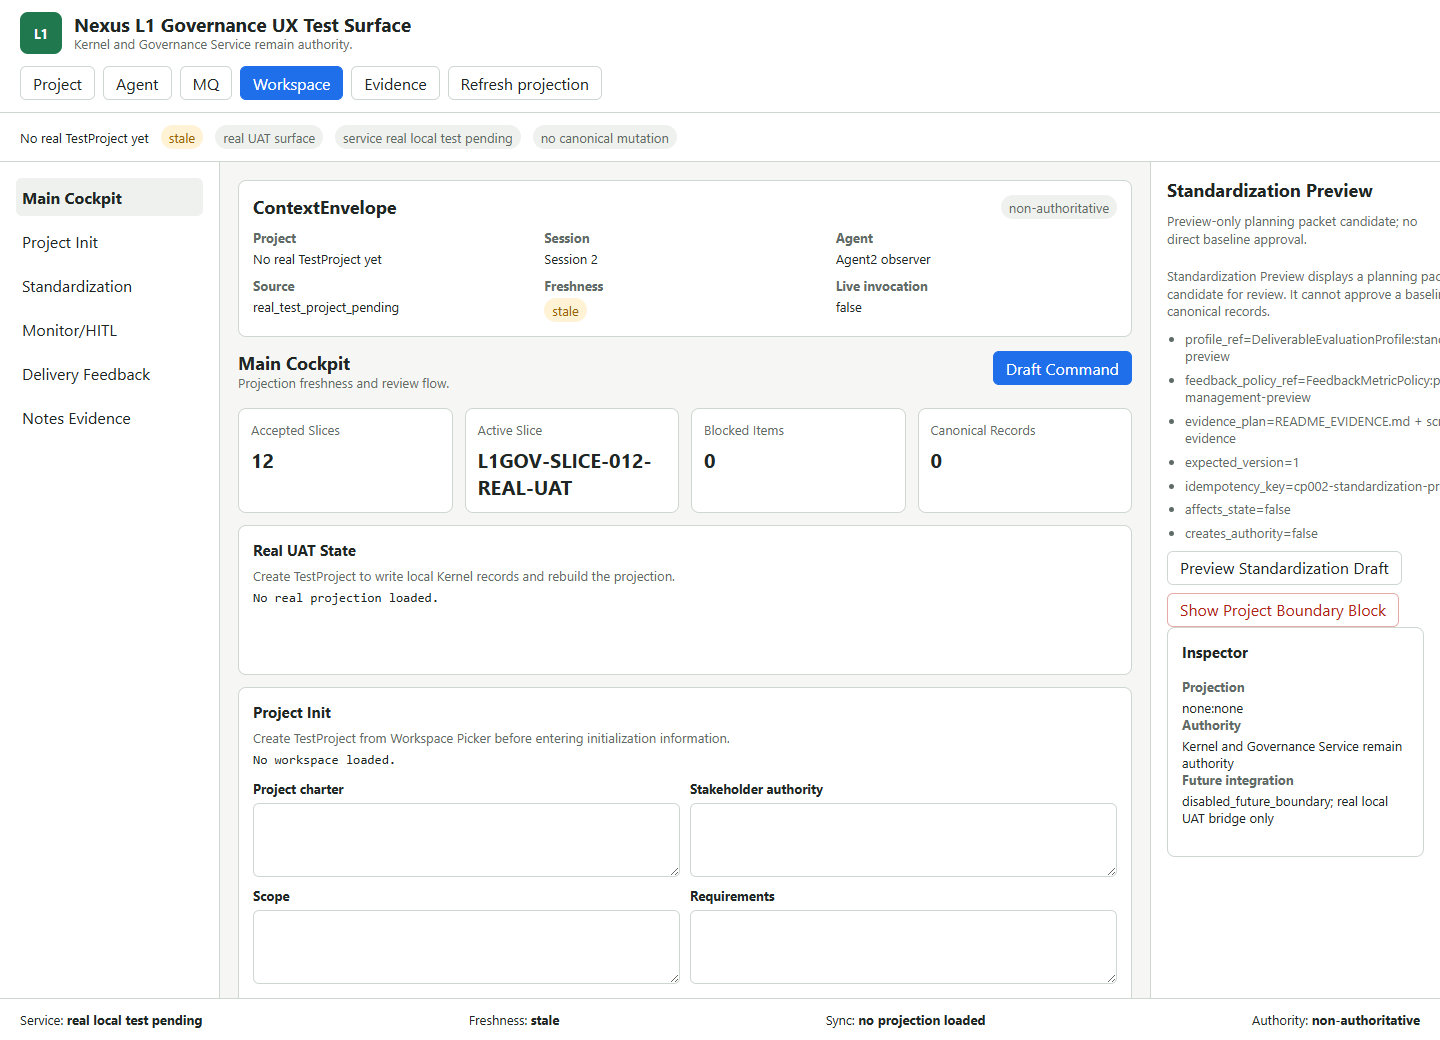
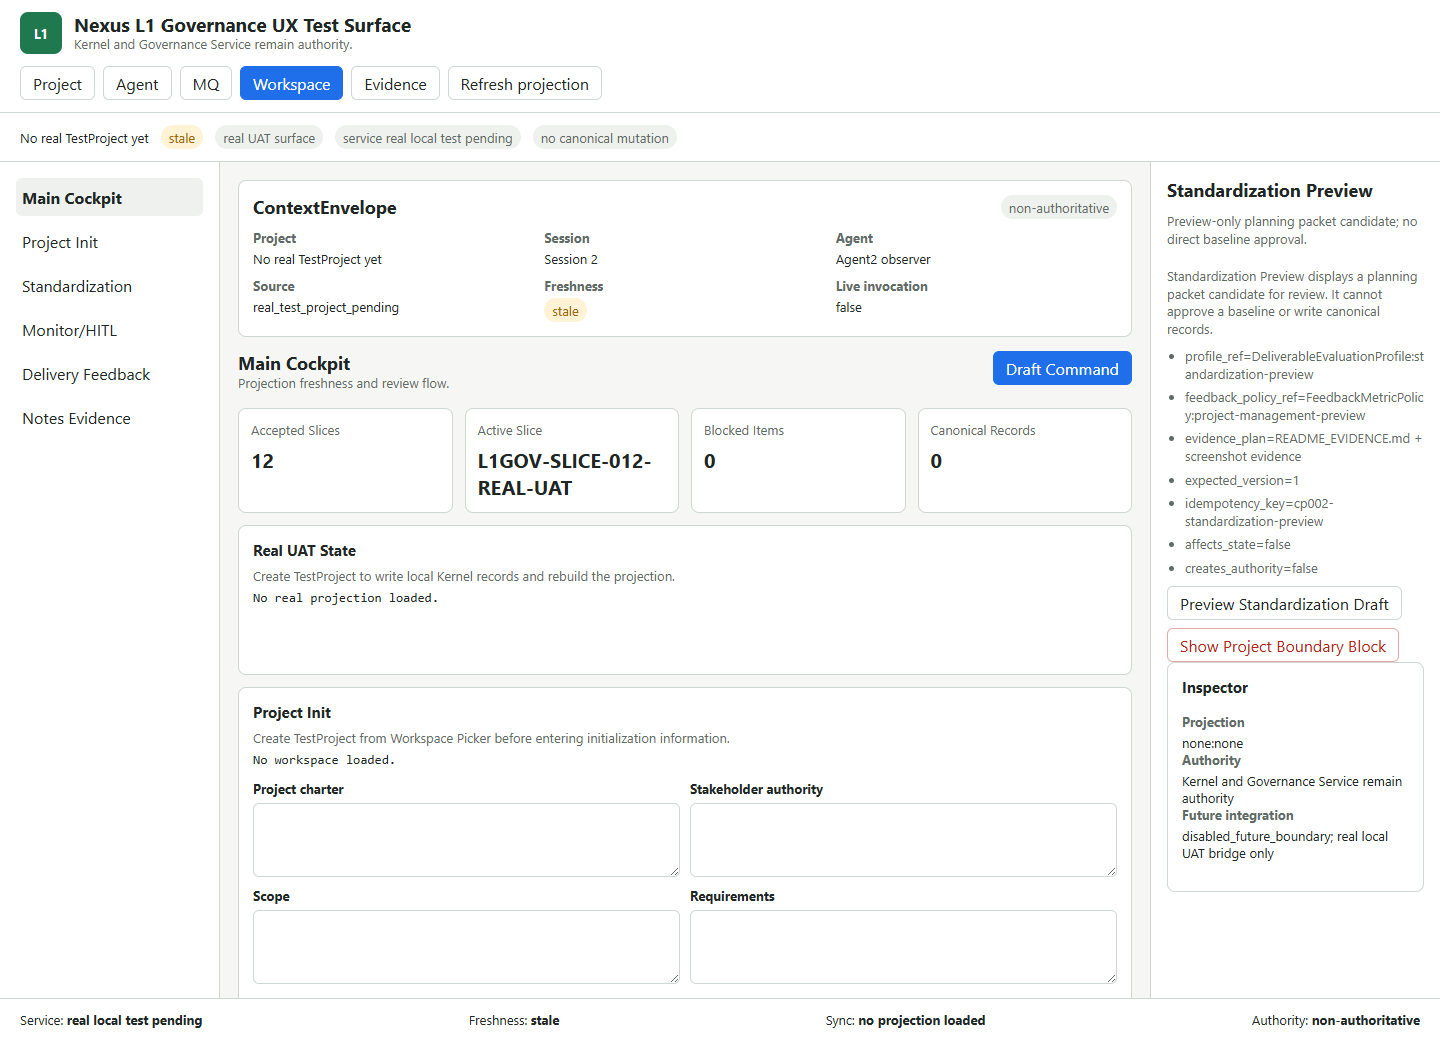
fix: record CP002 authorization and wrap project metadata

Changed region(s): [[0.8125, 0.2769, 1.0, 0.8308]]

diff --git a/apps/l1gov-desktop-client/src/styles.css b/apps/l1gov-desktop-client/src/styles.css
@@ -268,6 +268,7 @@ code {
 .operation-panel-body {
   display: grid;
   gap: 10px;
+  min-width: 0;
 }
 
 .operation-panel-actions {
@@ -282,6 +283,13 @@ code {
   margin: 0;
   padding-left: 18px;
   color: var(--muted);
+}
+
+.operation-panel-body code,
+.panel-detail-list li {
+  min-width: 0;
+  max-width: 100%;
+  overflow-wrap: anywhere;
 }
 
 .section-head {

diff --git a/nexus/governance/tests/test_client_desktop_surface_slice012.py b/nexus/governance/tests/test_client_desktop_surface_slice012.py
@@ -373,3 +373,12 @@ def test_cp002_project_panels_do_not_add_direct_authority_or_baseline_controls()
     assert "direct baseline approval" in main_js
     assert "direct canonical mutation" in main_js
     assert "err_no_go_boundary" in main_js
+
+
+def test_cp002_operation_panel_metadata_wraps_inside_right_panel() -> None:
+    styles = read_app_file("src/styles.css")
+
+    assert ".operation-panel-body code" in styles
+    assert ".panel-detail-list li" in styles
+    assert "overflow-wrap: anywhere" in styles
+    assert "max-width: 100%" in styles

diff --git a/verification/4.21/child-panel-figma-implementation-cp002-project-panels/AUTHORIZATION_RECORD.md b/verification/4.21/child-panel-figma-implementation-cp002-project-panels/AUTHORIZATION_RECORD.md
@@ -1,0 +1,34 @@
+# CP-002 Authorization Record
+
+## Authorization
+
+`AUTHORIZE_CHILD_PANEL_CP002_IMPLEMENTATION`
+
+Alex explicitly authorized CP-002 implementation in the current Codex thread on 2026-06-15 after Nova blocked acceptance pending a file-backed authorization record.
+
+## Authorized Scope
+
+- CP-002 Project Management Panels only.
+- PR #24: `https://github.com/Jarvis-Maverick-Bot/Nexus/pull/24`
+- Branch: `codex/4.21-child-panel-cp002-project-panels`
+- Base branch: `codex/4.21-real-testproject-e2e-uat`
+
+## Approved CP-002 Behaviors
+
+- Project menu open state.
+- Create Project child panel.
+- Init Project dirty-state child panel.
+- Standardization preview child panel.
+- Command draft preview-only behavior.
+- No direct baseline approval or canonical mutation from the desktop UI.
+
+## Not Authorized
+
+- CP-003 or later child-panel work.
+- Merge without Nova/Alex review acceptance.
+- New dependencies or root package-manager mutation.
+- Tauri bridge expansion.
+- Runtime/live/private-agent invocation.
+- Dispatch execution, controller call, route/adapter/transport activation.
+- Deploy/config/credential mutation.
+- Production readiness, continuity activation, or final PASS claim.

diff --git a/verification/4.21/child-panel-figma-implementation-cp002-project-panels/README_EVIDENCE.md b/verification/4.21/child-panel-figma-implementation-cp002-project-panels/README_EVIDENCE.md
@@ -4,6 +4,10 @@
 
 CP-002 implementation is ready for Nova review.
 
+## Authorization
+
+`AUTHORIZATION_RECORD.md` records Alex's explicit CP-002 implementation authorization from the current Codex thread on 2026-06-15.
+
 ## Scope Implemented
 
 - Project menu open state in Operation Panel Host.
@@ -12,6 +16,7 @@ CP-002 implementation is ready for Nova review.
 - Standardization preview child panel.
 - Command draft preview-only behavior for all Project child panels.
 - No direct baseline approval or canonical mutation from the desktop UI.
+- Standardization Preview right-panel metadata wrapping patch after Nova review.
 
 ## Boundary
 
@@ -19,6 +24,7 @@ The patch stays inside the approved desktop-client/test/evidence boundary. It do
 
 ## Evidence Files
 
+- `AUTHORIZATION_RECORD.md`
 - `SOURCE_CHECKOUT_PROOF.md`
 - `TEST_OUTPUTS.md`
 - `NO_GO_SCAN_RESULTS.md`

diff --git a/verification/4.21/child-panel-figma-implementation-cp002-project-panels/DESIGN_CHANGE_IMPACT_RESPONSE.md b/verification/4.21/child-panel-figma-implementation-cp002-project-panels/DESIGN_CHANGE_IMPACT_RESPONSE.md
@@ -4,11 +4,14 @@
 
 CP-002 replaces the CP-001 Project placeholder with Project Management child panels mapped to accepted Figma frames `03` through `06`.
 
+After Nova review, CP-002 also adds a small wrapping patch for right-panel metadata in the Standardization Preview.
+
 ## UX Impact
 
 - Project menu now opens a child-panel menu inside Operation Panel Host.
 - Create Project, Init Project Dirty State, and Standardization Preview are reviewable without replacing the shell.
 - Command draft previews expose expected version, idempotency key, source refs, and non-authoritative status.
+- Long Project panel metadata wraps inside Operation Panel Host instead of clipping at the right edge.
 
 ## Governance Impact
 

diff --git a/verification/4.21/child-panel-figma-implementation-cp002-project-panels/TEST_OUTPUTS.md b/verification/4.21/child-panel-figma-implementation-cp002-project-panels/TEST_OUTPUTS.md
@@ -11,7 +11,7 @@ python -m pytest nexus/governance/tests/test_client_desktop_surface_slice012.py 
 Result:
 
 ```text
-17 passed in 0.03s
+18 passed in 0.03s
 ```
 
 ## Real UAT Desktop Bridge Tests
@@ -39,7 +39,7 @@ python -m pytest nexus/governance/tests/test_local_app_shell_contract.py nexus/g
 Result:
 
 ```text
-76 passed in 0.17s
+76 passed in 0.18s
 ```
 
 ## Full Governance Tests
@@ -53,7 +53,7 @@ python -m pytest nexus/governance/tests -q
 Result:
 
 ```text
-654 passed in 0.85s
+655 passed in 0.76s
 ```
 
 ## Desktop Fixture Verifier

diff --git a/verification/4.21/child-panel-figma-implementation-cp002-project-panels/VISUAL_QA_NOTES.md b/verification/4.21/child-panel-figma-implementation-cp002-project-panels/VISUAL_QA_NOTES.md
@@ -6,6 +6,7 @@
 - Create Project panel renders command draft preview-only data.
 - Init Project Dirty State panel renders dirty field metadata.
 - Standardization Preview panel renders profile, policy, and evidence-plan metadata.
+- Standardization Preview right-panel metadata wraps within the Operation Panel Host without clipping at the panel edge.
 - Compact Project menu open screenshot is nonblank.
 - ContextEnvelope, Main Cockpit, Operation Panel Host, Inspector, and status bar remain visible.
 
